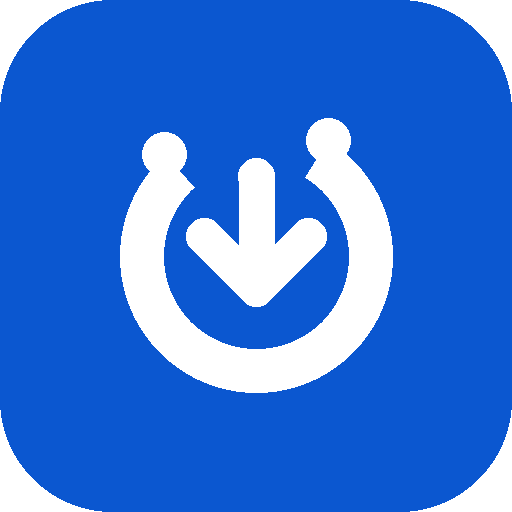
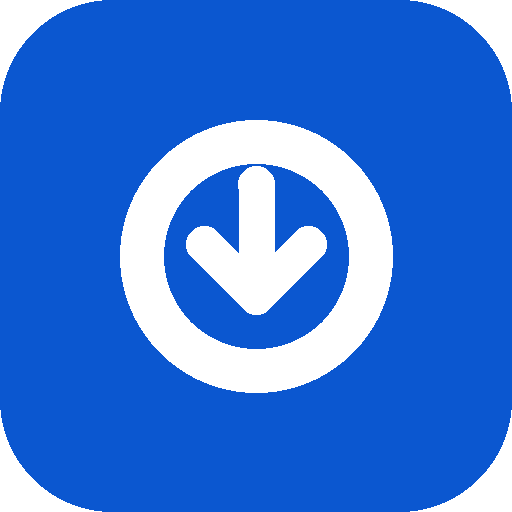
v1.2 · icono rediseñado y textos revisados
El icono tenia dos remates de arco en la parte superior que, a tamaño
pequeño, se leian como un par de ojos. Se cierra el circulo: mantiene la
O de OfficeGo y desaparece el efecto. Regenerado el .ico con sus siete
tamaños.

Se quitan los guiones largos de la documentacion y de los mensajes de la
interfaz, sustituidos por la puntuacion que pide cada frase.

El README gana una seccion de estado que dice con claridad que se prueba
de forma automatica y que no: 36 pruebas cubren la logica, y la ventana
se valida sintacticamente pero solo se ejecuta de verdad en Windows.

diff --git a/README.md b/README.md
@@ -2,7 +2,7 @@
   <img src="assets/officego.png" alt="OfficeGo" width="120">
   <h1>OfficeGo</h1>
   <p>
-    <strong>Instalador y activador de Microsoft Office — directo desde Microsoft.</strong><br>
+    <strong>Instalador y activador de Microsoft Office, directo desde Microsoft.</strong><br>
     Sin páginas de terceros, sin archivos de dudosa procedencia, sin instalar nada previo.
     Un solo archivo que se abre y funciona.
   </p>
@@ -14,6 +14,7 @@
     <img src="https://img.shields.io/badge/Portable-un_solo_archivo-0B57D0" alt="portable">
     <img src="https://img.shields.io/badge/Sin_dependencias-0_instalaciones-16A34A" alt="sin dependencias">
     <img src="https://img.shields.io/badge/Licencia-MIT-6366F1" alt="MIT">
+    <img src="https://img.shields.io/badge/versión-1.2-0B57D0" alt="v1.2">
   </p>
   <p>
     <a href="#-puesta-en-marcha"><img src="https://img.shields.io/badge/Ejecutar_con_un_comando-PowerShell-5391FE?style=for-the-badge&logo=powershell&logoColor=white" alt="Ejecutar"></a>
@@ -33,7 +34,7 @@ texto legible, que no hay que instalar ningún runtime, y que el antivirus no se
 nervioso como con un `.exe` descargado.
 
 > **Nada se instala hasta que lo confirmas.** El programa arranca revisando tu equipo
-> — Windows, memoria, disco, gráfica — y recomienda la versión que de verdad te cabe.
+> (Windows, memoria, disco, gráfica) y recomienda la versión que de verdad te cabe.
 > Con 3 GB de RAM te propone Office 2016, no la última.
 
 ![Pantalla de inicio](capturas/inicio.png)
@@ -47,7 +48,7 @@ nervioso como con un `.exe` descargado.
 | ✅ | **Eliges qué instalar** | Solo Word y Excel, o la suite entera. Al cambiar de edición las aplicaciones se ajustan solas: con *Standard* se apaga Access, porque esa edición no lo trae. |
 | 📐 | **Visio y Project** | Como complementos, en el mismo `configuration.xml` que Office. |
 | 🔑 | **Activación integrada** | Con tu clave de 25 caracteres, o con MAS ejecutado con `/Ohook` **sin abrir su menú**: todo ocurre dentro de la ventana. |
-| 🖥 | **Conoce tu equipo** | Procesador con uso en vivo, memoria, cada disco con su ocupación y la tarjeta gráfica con su marca — NVIDIA, AMD o Intel. |
+| 🖥 | **Conoce tu equipo** | Procesador con uso en vivo, memoria, cada disco con su ocupación y la tarjeta gráfica con su marca: NVIDIA, AMD o Intel. |
 | 🧰 | **Herramientas** | Reparar la instalación, crear un instalador sin conexión para otros equipos, y desinstalar (pidiendo escribir `BORRAR`). |
 | 🚑 | **Ayuda de verdad** | Los errores frecuentes con el **mensaje literal** que sale en pantalla y el comando exacto que los arregla. |
 | 🪶 | **Portable** | Un `.ps1` de 68 KB. Cabe en un USB, no deja rastro en el registro, no necesita instalarse. |
@@ -105,12 +106,12 @@ officego/
 
 <br>
 
-**Instalar** — versión, edición, idioma y aplicaciones. El resumen de la derecha se
+**Instalar.** Versión, edición, idioma y aplicaciones. El resumen de la derecha se
 recalcula con cada cambio.
 
 ![Instalar](capturas/instalar.png)
 
-**Equipo** — procesador, memoria, discos y gráfica, con la recomendación arriba.
+**Equipo.** Procesador, memoria, discos y gráfica, con la recomendación arriba.
 
 ![Equipo](capturas/equipo.png)
 
@@ -120,7 +121,7 @@ avisos que correspondan.
 
 ![Equipo antiguo](capturas/equipo-antiguo.png)
 
-**Activar** — con tu clave o con MAS, que se ejecuta en segundo plano.
+**Activar.** Con tu clave o con MAS, que se ejecuta en segundo plano.
 
 ![Activar](capturas/activar.png)
 
@@ -137,8 +138,8 @@ Tres formas, todas locales. La primera no descarga nada.
 
 ### 1 · Un solo comando
 
-Abre **PowerShell como administrador** — tecla <kbd>Windows</kbd> → escribe
-`PowerShell` → *Ejecutar como administrador* — y pega:
+Abre **PowerShell como administrador**: tecla <kbd>Windows</kbd> → escribe
+`PowerShell` → *Ejecutar como administrador*, y pega:
 
 ```powershell
 irm https://raw.githubusercontent.com/MariaDSalazar/officego/main/OfficeGo.ps1 | iex
@@ -161,7 +162,7 @@ en tu propio equipo, SmartScreen no lo marca igual que a un ejecutable bajado de
 
 ## Documentación
 
-- **[Guía rápida](docs/GUIA-RAPIDA.md)** — instalar Office en cinco minutos, qué versión
+- **[Guía rápida](docs/GUIA-RAPIDA.md)**: instalar Office en cinco minutos, qué versión
   elegir y qué hacer si algo falla. Para quien no quiere leerse todo esto.
 
 ## Requisitos
@@ -193,9 +194,18 @@ Con menos de 4 GB de RAM se recomienda siempre la versión ligera, sin importar 
 El instalador no debería dar problemas: descarga de dominios de Microsoft y no hace
 nada ofuscado.
 
-**MAS sí lo detecta Windows Defender**, siempre y por diseño — está advertido en la
+**MAS sí lo detecta Windows Defender**, siempre y por diseño. Está advertido en la
 propia web de massgrave.dev. OfficeGo lo avisa antes de lanzarlo y explica cómo pausar
 la protección un momento y **volver a encenderla al terminar**.
+
+## Estado del proyecto
+
+La lógica está cubierta por **36 pruebas automáticas** que se ejecutan en cualquier
+sistema: catálogo, generación del `configuration.xml` y reglas de recomendación.
+
+La interfaz se valida sintácticamente en cada compilación, pero Windows Forms solo
+se puede ejecutar de verdad en Windows. Si al abrirlo ves algún control descolocado
+o un texto cortado, [abre un issue](../../issues/new) con una captura y se corrige.
 
 ## Para desarrollar
 
@@ -212,7 +222,7 @@ recomendación responda bien ante siete equipos distintos.
 ## Créditos
 
 - Instalación: [Office Deployment Tool](https://learn.microsoft.com/microsoft-365-apps/deploy/overview-office-deployment-tool) de Microsoft
-- Activación: [MAS · Microsoft Activation Scripts](https://github.com/massgravel/Microsoft-Activation-Scripts) — proyecto independiente
+- Activación: [MAS · Microsoft Activation Scripts](https://github.com/massgravel/Microsoft-Activation-Scripts), proyecto independiente
 - Idea original del catálogo de versiones: la comunidad de [massgrave.dev](https://massgrave.dev)
 
 <div align="center">
@@ -241,7 +251,7 @@ proyecto se publica con fines educativos y de administración de equipos propios
 
 ## Licencia
 
-MIT — ver [LICENSE](LICENSE).
+MIT. Ver [LICENSE](LICENSE).
 
 ---
 

diff --git a/docs/GUIA-RAPIDA.md b/docs/GUIA-RAPIDA.md
@@ -54,8 +54,8 @@ Y sobre la edición:
 
 En la pantalla **Activar** hay dos caminos:
 
-- **Clave de producto** — si tiene una clave de 25 caracteres, es lo correcto y lo legal.
-- **MAS** — herramienta externa que OfficeGo ejecuta sin abrir su menú.
+- **Clave de producto.** Si tiene una clave de 25 caracteres, es lo correcto y lo legal.
+- **MAS.** Herramienta externa que OfficeGo ejecuta sin abrir su menú.
 
 Sobre MAS conviene saber dos cosas. La primera: **Windows Defender lo detecta siempre**,
 por diseño, aunque no sea dañino; lo advierte la propia web de massgrave.dev. Habrá que
